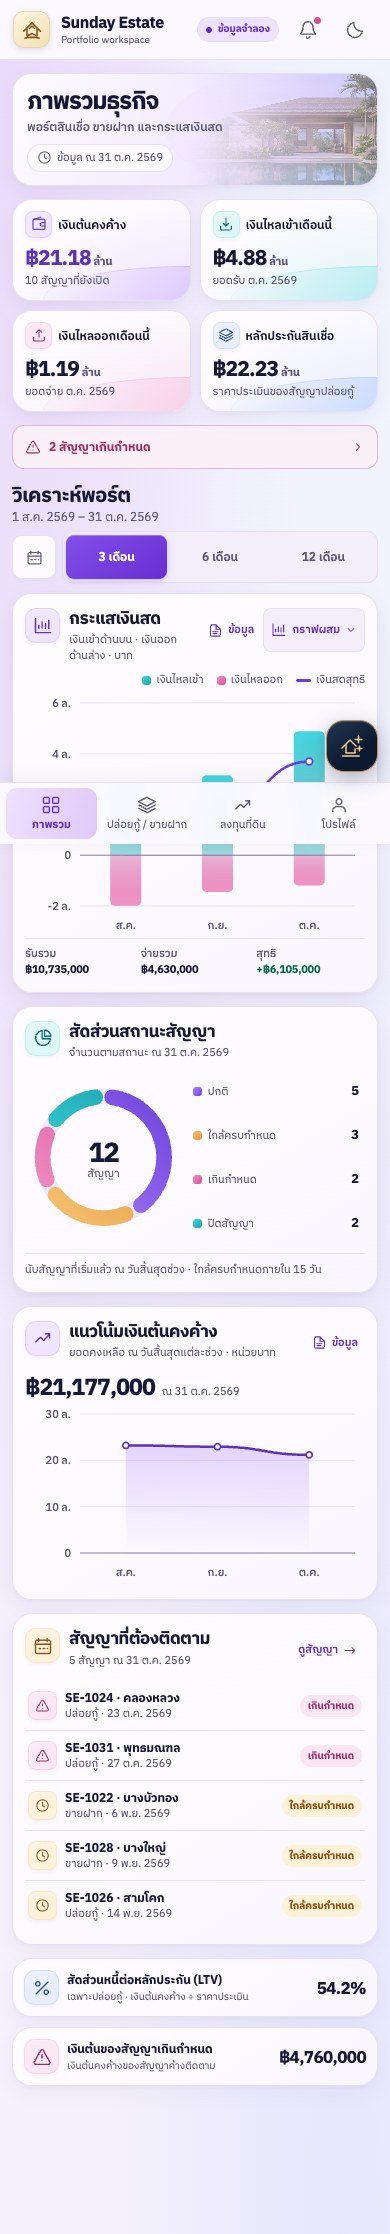
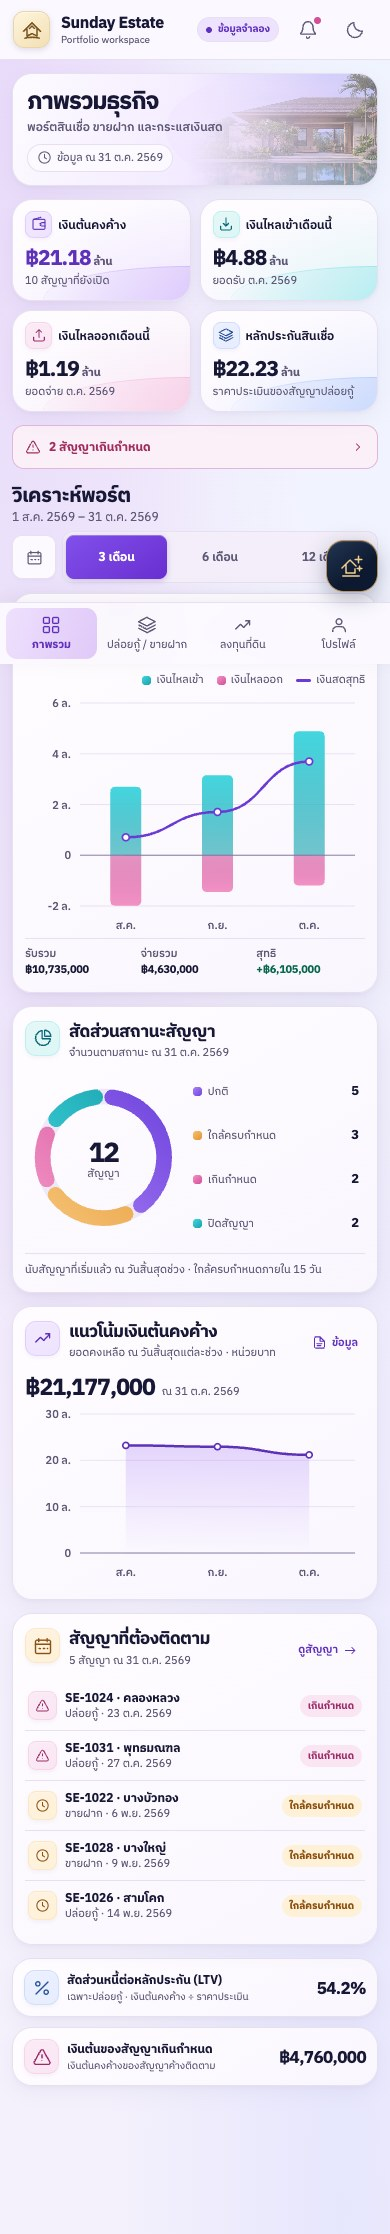
Strengthen the cashflow bar gradient at zero

diff --git a/preview/aurora-demo/v2/evidence/index.html b/preview/aurora-demo/v2/evidence/index.html
@@ -4,7 +4,7 @@
   <meta charset="utf-8">
   <meta name="viewport" content="width=device-width, initial-scale=1">
   <meta name="color-scheme" content="light dark">
-  <title>ภาพหน้าจอ Sunday Estate Aurora V2.2</title>
+  <title>ภาพหน้าจอ Sunday Estate Aurora V2.3</title>
   <style>
     body{max-width:1000px;margin:auto;padding:1.25rem;font:1rem/1.65 system-ui,sans-serif}
     h1{font-size:clamp(1.5rem,5vw,2.3rem)}
@@ -16,7 +16,7 @@
 </head>
 <body>
   <a href="../">กลับไปเดโม</a>
-  <h1>ภาพหน้าจอ Aurora V2.2</h1>
+  <h1>ภาพหน้าจอ Aurora V2.3</h1>
   <p>ภาพจากเดโม GitHub Pages ในเบราว์เซอร์ที่ความกว้าง 390 และ 1440 พิกเซล แตะภาพเพื่อเปิดขนาดเต็ม</p>
   <main>
     <figure><a href="dashboard-desktop-light.jpg"><img src="dashboard-desktop-light.jpg" alt="ภาพรวมธีมสว่างบนเดสก์ท็อป"></a><figcaption>ภาพรวม · เดสก์ท็อป · สว่าง</figcaption></figure>

diff --git a/preview/aurora-demo/v2/charts.js b/preview/aurora-demo/v2/charts.js
@@ -77,7 +77,7 @@ window.EstateCharts = (() => {
     const defs = chartBars ? ['income','expense'].map(key => {
       const up = key === 'income';
       return '<linearGradient id="' + kind + '-' + key + '" x1="0" x2="0" y1="' + (up ? 1 : 0) + '" y2="' + (up ? 0 : 1) +
-        '" gradientUnits="objectBoundingBox"><stop class="gradient-' + tones[key] + ' end" stop-opacity=".4"/>' +
+        '" gradientUnits="objectBoundingBox"><stop class="gradient-' + tones[key] + ' end" stop-opacity=".6"/>' +
         '<stop offset="100%" class="gradient-' + tones[key] + ' start" stop-opacity="1"/></linearGradient>';
     }).join('') : '';
     const grids = scale.ticks.map(t => '<line x1="' + left + '" x2="' + right + '" y1="' + y(t) + '" y2="' + y(t) + '" class="' + (t === 0 ? 'axis-zero' : 'axis-grid') + '"/><text class="axis-label" x="' + (left - 9) + '" y="' + (y(t) + 4) + '" text-anchor="end">' + tickText(t) + '</text>').join('');

diff --git a/preview/aurora-demo/v2/index.html b/preview/aurora-demo/v2/index.html
@@ -8,7 +8,7 @@
   <link rel="icon" type="image/png" href="assets/icon.png">
   <link rel="stylesheet" href="styles.css">
   <script defer src="data.js"></script>
-  <script defer src="charts.js?v=2.1"></script>
+  <script defer src="charts.js?v=2.3"></script>
   <link rel="stylesheet" href="experience.css?v=2.2">
   <script defer src="scenes.js"></script>
   <script defer src="investment.js?v=2.2"></script>
